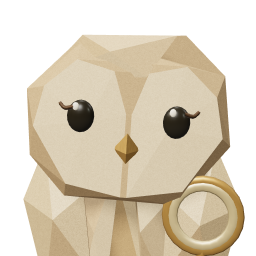
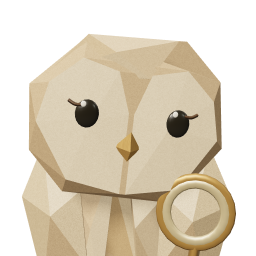
Refine clasped hands, continuous navigator arms and thinner feathers

diff --git a/src/scene/characterGeometry.ts b/src/scene/characterGeometry.ts
@@ -210,13 +210,13 @@ export function navigatorCapePoint(t:number,angle:number,inset=0):Tuple {
  * pasted onto the belly. The sweep is built once and uses the existing joint. */
 function embracingArm():THREE.BufferGeometry {
   const origin=new THREE.Vector3(.245,.23,.05);
-  const curve=new THREE.CatmullRomCurve3([[.245,.23,.05],[.25,.14,.13],[.23,0,.19],[.115,-.095,.22],[.04,-.10,.215]].map(p=>new THREE.Vector3(...p).sub(origin)));
+  const curve=new THREE.CatmullRomCurve3([[.245,.23,.05],[.25,.13,.13],[.20,.035,.22],[.065,.015,.245],[-.055,.035,.245]].map(p=>new THREE.Vector3(...p).sub(origin)));
   const rows=12,columns=12,frames=curve.computeFrenetFrames(rows,false),positions:number[]=[],indices:number[]=[];
   for(let row=0;row<=rows;row++){
     const t=row/rows,centre=curve.getPointAt(t),radius=.104*Math.pow(Math.max(0,Math.sin(Math.PI*t)),.45);
     for(let col=0;col<=columns;col++){
       const angle=col/columns*Math.PI*2,delta=frames.normals[row].clone().multiplyScalar(Math.cos(angle)*radius).addScaledVector(frames.binormals[row],Math.sin(angle)*radius);
-      positions.push(centre.x+delta.x,centre.y+delta.y,centre.z+delta.z*.80);
+      positions.push(Math.max(.0015,centre.x+origin.x+delta.x)-origin.x,centre.y+delta.y,centre.z+delta.z*.80);
       if(row<rows&&col<columns){const a=row*(columns+1)+col,b=a+1,c=a+columns+1,d=c+1;indices.push(a,b,c,b,d,c);}
     }
   }
@@ -254,12 +254,13 @@ function cape(): THREE.BufferGeometry {
 }
 
 function feather(): THREE.BufferGeometry {
-  const geometry = new THREE.SphereGeometry(.5, 8, 4), position = geometry.attributes.position;
-  for (let i = 0; i < position.count; i++) {
-    const y = position.getY(i), taper = .08 + .92 * Math.pow(Math.max(0,y + .5),.65);
-    position.setXYZ(i, position.getX(i) * taper, y < -.20 ? -.20 + (y + .20) * 1.38 : y, position.getZ(i));
-  }
-  return smoothDeformedSurface(geometry);
+  // A lightly cupped, thin feather, not a stretched solid diamond. The same
+  // closed outline works on the breast and on the overlapping wing fans.
+  const outline:Tuple[]=[[0,.5,0],[-.28,.44,0],[-.45,.24,0],[-.46,.04,0],[-.35,-.23,0],[-.17,-.48,0],[0,-.62,0],[.14,-.47,0],[.31,-.23,0],[.42,.04,0],[.40,.26,0],[.25,.44,0]];
+  const points:Tuple[]=[...outline,[0,.02,.10],...outline.map(([x,y,z])=>[x,y,z-.014] as Tuple),[0,.02,.086]];
+  const faces:number[][]=[];
+  for(let i=0;i<12;i++){const j=(i+1)%12;faces.push([i,12,j],[i+13,j+13,25],[i,j,j+13,i+13]);}
+  return smoothDeformedSurface(polyhedron(points,faces));
 }
 
 function polyhedron(vertices: Tuple[], faces: number[][],faceColors?: string[]): THREE.BufferGeometry {
@@ -356,9 +357,9 @@ function paperOwlHead(quill=false): THREE.BufferGeometry {
     const center=vertices.length;vertices.push([side?.18:-.18,-.015,.46]);
     for(let i=0;i<cheek.length;i++){const a=outline.length+side*cheek.length+i,b=outline.length+side*cheek.length+(i+1)%cheek.length;faces.push([a,b,center]);colors.push('#edd6b0');}
   }
-  const shoulder=vertices.length;vertices.push(...outline.map(([x,y])=>[x*.78,y*.85,.015] as Tuple));
-  const back=vertices.length;vertices.push(...outline.map(([x,y])=>[x*.53,y*.69,-.12] as Tuple));
-  const rearCenter=vertices.length;vertices.push([0,.03,-.16]);
+  const shoulder=vertices.length;vertices.push(...outline.map(([x,y])=>[x*.87,y*.92,.21-Math.abs(x)*.12] as Tuple));
+  const back=vertices.length;vertices.push(...outline.map(([x,y])=>[x*.58,y*.70,.03] as Tuple));
+  const rearCenter=vertices.length;vertices.push([-.035,.03,.08]);
   for(let i=0;i<outline.length;i++){
     const j=(i+1)%outline.length;faces.push([i,shoulder+i,shoulder+j],[i,shoulder+j,j],[shoulder+i,back+i,back+j],[shoulder+i,back+j,shoulder+j],[back+j,back+i,rearCenter]);
     colors.push('#c7ad8a','#d0b591','#c1a582','#c8b18c','#ba9e7a');
@@ -484,7 +485,7 @@ function featherFan(sign: number, breast = false): THREE.BufferGeometry {
         let r=0;while(r<owlContour.length-2&&owlContour[r+1].y<normalizedY)r++;
         const a=owlContour[r],b=owlContour[r+1],radius=a.x+(b.x-a.x)*(normalizedY-a.y)/(b.y-a.y);
         const theta=angle+point.x*.225/Math.max(.12,radius*.70);
-        const relief=(.016+point.z*.026+(4-row)*.012)*(1-.90*THREE.MathUtils.smoothstep(py,.14,.29));
+        const relief=(.007+point.z*.026+(4-row)*.0025)*(1-.30*THREE.MathUtils.smoothstep(py,.14,.29));
         point.set(Math.sin(theta)*(radius*.70+relief),py,Math.cos(theta)*(radius*.55+relief));
         const slope=(b.x-a.x)/(b.y-a.y);
         normal.set(Math.sin(theta)/.70,-slope/.83,Math.cos(theta)/.55).normalize();
@@ -507,7 +508,9 @@ function featherFan(sign: number, breast = false): THREE.BufferGeometry {
     const n=geometry.attributes.normal,a=new THREE.Vector3(),b=new THREE.Vector3();
     for(let i=0;i<n.count;i++){
       a.fromBufferAttribute(n,i);b.fromBufferAttribute(radial,i);
-      if(a.dot(b)>0)a.lerp(b,.16).normalize();
+      // Very thin overlapping plumage follows the body's soft shading. A
+      // beveled-solid normal would make each feather read like metal armor.
+      if(a.dot(b)>0)a.lerp(b,.92).normalize();
       n.setXYZ(i,a.x,a.y,a.z);
     }
     geometry.setAttribute('color',new THREE.Float32BufferAttribute(colours,3));
@@ -785,12 +788,24 @@ export function characterSmile(kit: SceneKit, parent: THREE.Object3D, color: str
 
 /** Small inlaid strokes share their tube surface across all scene characters. */
 export function characterStroke(kit: SceneKit, parent: THREE.Object3D, color: string, points: Tuple[],
-  radius = .008, finish: CharacterFinish = 'brass'): THREE.Mesh {
-  const cache = owned(kit).geometry, key = `stroke:${radius}:${points.map(point => point.join(':')).join(';')}`;
+  radius = .008, finish: CharacterFinish = 'brass',rounded=false): THREE.Mesh {
+  const cache = owned(kit).geometry, key = `stroke:${radius}:${rounded}:${points.map(point => point.join(':')).join(';')}`;
   let geometry = cache.get(key);
   if (!geometry) {
     const curve = new THREE.CatmullRomCurve3(points.map(point => new THREE.Vector3(...point)));
-    geometry = new THREE.TubeGeometry(curve, Math.max(4, points.length * 2), radius, 4, false); cache.set(key, geometry);
+    geometry = new THREE.TubeGeometry(curve, Math.max(4, points.length * 2), radius, rounded?8:4, false);
+    if(rounded){
+      const parts=[geometry.toNonIndexed(),...([points[0],points[points.length-1]].map(p=>{
+        const sphere=new THREE.SphereGeometry(radius,8,6).translate(...p),part=sphere.toNonIndexed();sphere.dispose();return part;
+      }))];
+      geometry.dispose();geometry=new THREE.BufferGeometry();
+      for(const name of ['position','normal','uv']){
+        const size=parts[0].attributes[name].itemSize;
+        geometry.setAttribute(name,new THREE.Float32BufferAttribute(parts.flatMap(part=>Array.from(part.attributes[name].array)),size));
+      }
+      parts.forEach(part=>part.dispose());
+    }
+    cache.set(key, geometry);
   }
   const mesh = new THREE.Mesh(geometry, characterMaterial(kit, color, finish));
   mesh.castShadow = true; mesh.receiveShadow = true; parent.add(mesh); return mesh;
@@ -799,7 +814,7 @@ export function characterStroke(kit: SceneKit, parent: THREE.Object3D, color: st
 export function characterEyeArc(kit: SceneKit, parent: THREE.Object3D, color: string, at: Tuple,
   width = .045, height = .026, finish: CharacterFinish = 'ink',strokeRadius=.010): THREE.Mesh {
   const mesh = characterStroke(kit, parent, color,
-    [[-width, 0, 0], [-width * .6, height * .82, 0], [0, height, 0], [width * .6, height * .82, 0], [width, 0, 0]], strokeRadius, finish);
+    [[-width, 0, 0], [-width * .6, height * .82, 0], [0, height, 0], [width * .6, height * .82, 0], [width, 0, 0]], strokeRadius, finish,strokeRadius>.012);
   mesh.position.set(...at); return mesh;
 }
 

diff --git a/src/scene/proxies.ts b/src/scene/proxies.ts
@@ -239,12 +239,12 @@ export function makeProxy(character: Character, kit: SceneKit): THREE.Group {
         sculpt(head, 'limb', wayfinder ? '#314a58' : '#a85e39', [sign * .425, -.01, 0], [.16, .095, .16], [0, 0, Math.PI / 2], 'glaze');
         sculpt(head, 'detail', wayfinder ? '#b5a78c' : bodyColor, [sign * .463, -.01, 0], [.045, .117, .117], undefined, 'glaze');
       });
-      limbs(bodyColor, wayfinder ? '#e7ddc8' : leader ? bodyColor : '#e2d6b7');
-      if(wayfinder) data.arms.forEach((arm,index)=>{
-        const sign=index?1:-1;arm.position.x=sign*.385;arm.position.y=.11;arm.position.z=.025;
-        arm.children[0].scale.set(.15,.44,.22);arm.children[0].position.y=-.13;
-        arm.children[1].scale.set(.15,.13,.18);arm.children[1].position.y=-.30;
+      limbs(bodyColor, wayfinder ? '#e7ddc8' : leader ? bodyColor : '#e2d6b7',false,wayfinder);
+      if(wayfinder) [-1,1].forEach(sign=>{
+        const arm=joint(body,sign<0?'arm_l':'arm_r',[sign*.375,.10,.025]);
+        sculpt(arm,'bean',bodyColor,[0,-.15,0],[.19,.61,.31],undefined,'glaze');
         sculpt(arm,'detail','#2d4250',[sign*.025,-.05,.116],[.085,.23,.025],[0,sign*.4,0],'clay');
+        data.arms.push(arm);
       });
       if(wayfinder&&id!=='intake-jarvis'){
         stroke(body,'#c3ad83',[[-.275,.19,.30],[-.255,-.04,.32],[-.15,-.16,.32],[0,-.20,.32],[.15,-.16,.32],[.255,-.04,.32],[.275,.19,.30]],.005,'clay');
@@ -322,10 +322,10 @@ export function makeProxy(character: Character, kit: SceneKit): THREE.Group {
       if (navy) sculpt(head, 'bean', '#c49b54', [sign * .162, .002, .289], [.157, .181, .051], undefined, 'brass');
       if (id === 'reflection-quill') data.eyes.push(characterEyeArc(kit, head, '#524334', [sign * .162, .015, .210], .047, .028));
       else {
-        const eye = sculpt(head, 'bean', navy ? '#13252d' : '#302c22', [sign * .162+(navy?.014:0), .011, navy?.313:.202], [navy ? .105 : .092, navy ? .125 : .110, .045], undefined, 'ink'); data.eyes.push(eye);
-        data.highlights.push(sculpt(head, 'detail', '#fff9e7', [sign * .162 - (navy?.003:.016), navy?.044:.043, navy?.330:.224], [navy?.025:.023, navy?.030:.028, .010], undefined, 'glaze'));
+        const eye = sculpt(head, 'bean', navy ? '#13252d' : '#302c22', [sign * .162+(navy?.029:.006), navy?-.002:.011, navy?.313:.195], [navy ? .105 : .083, navy ? .125 : .098, navy?.045:.024], undefined, 'ink'); data.eyes.push(eye);
+        data.highlights.push(sculpt(head, 'detail', '#fff9e7', [sign * .162 + (navy?.012:-.010), navy?.031:.043, navy?.330:.208], [navy?.025:.020, navy?.030:.022, .006], undefined, 'glaze'));
       }
-      if(id==='reflection-echo')stroke(head,'#56402a',[[sign*.184,.042,.223],[sign*.215,.035,.212],[sign*.235,.050,.194]],.007,'ink');
+      if(id==='reflection-echo')stroke(head,'#56402a',[[sign*.180+.006,.039,.203],[sign*.205+.006,.038,.201],[sign*.230+.006,.050,.192]],.006,'ink');
       if (navy) sculpt(head, sign < 0 ? 'owlBrowL' : 'owlBrowR', '#26394f', [sign * .18, .255, .045], sign<0?[.80,1.50,1.30]:[.90,.95,1.40], [0,0,sign<0?-.15:-.08], 'feather');
       const wing = joint(body, sign < 0 ? 'wing_l' : 'wing_r', [sign * .315, .12, -.025]);
       if(navy) sculpt(wing,'featherCore','#31485e',[sign*.015,-.145,0],[.205,.53,.30],[0,0,sign*.23],'feather');
@@ -393,9 +393,9 @@ export function makeProxy(character: Character, kit: SceneKit): THREE.Group {
     }
   }
   if(wayfinder)head.rotation.z=id==='intake-beacon'?-.095:id==='intake-relay'?.045:id==='intake-compass'?.11:-.025;
-  if(id==='reflection-echo'){head.rotation.z=-.07;head.rotation.y=.14;}
-  if(id==='reflection-quill'){head.rotation.z=.045;head.rotation.y=-.12;}
-  if(id==='email-owl'){head.rotation.z=-.12;head.rotation.y=.075;}
+  if(id==='reflection-echo'){head.rotation.z=-.12;head.rotation.y=.28;}
+  if(id==='reflection-quill'){head.rotation.z=.09;head.rotation.y=-.24;}
+  if(id==='email-owl'){head.rotation.z=-.16;head.rotation.y=.12;}
   if(id==='support-beacon'){head.rotation.z=.045;head.rotation.y=-.035;}
   data.restHead=data.head.rotation.clone();
   data.eyes.forEach(eye => { eye.userData.restEyeY = eye.scale.y; });

diff --git a/docs/AVATAR-DAYLIGHT-REVIEW.md b/docs/AVATAR-DAYLIGHT-REVIEW.md
@@ -28,7 +28,8 @@ The reviewer received no requested score and no instructions to approve.
 | Pass 9 | 7.7/10 | 8.2/10 | 7.9/10 — B |
 | Pass 10 | 7.9/10 | 8.1/10 | 8.0/10 — B+ |
 | Pass 11 | 8.1/10 | 8.1/10 | 8.1/10 — B+ |
-| Pass 12 | Pending | Pending | Independent review pending |
+| Pass 12 | 8.2/10 | 8.1/10 | 8.1/10 — B+ |
+| Pass 13 | Pending | Pending | Independent review pending |
 
 These are subjective visual judgments, not a pixel-similarity measurement.
 Craft/fidelity columns average the six team scores when no aggregate was supplied.
@@ -111,6 +112,13 @@ HR companion heights and the navigator cape's flare are also revised.
 The all-angle inspection exposed a mirrored-normal bug and an inside-out arm;
 both were fixed. Four new tests cover thin closed sheets, mirrored color and
 normal fidelity, and outward-facing arms. All 263 tests and the build pass.
+The twelfth review still found thick feather scales, solid-looking paper heads,
+low separated Beacon hands and exposed white mittens on the navigator cape.
+It did not approve the submission. Pass 13 replaces those mittens with joined
+side flaps, brings Beacon's hands into a clasp, rounds its eye-stroke ends,
+thins the owl's feather surfaces and paper-head backs, and refines eye depth
+and inward-looking posture. All 263 tests and the production build pass. No
+additional live render pass is introduced.
 
 ## Local-clock atmosphere
 
@@ -157,6 +165,8 @@ test suites were stopped during the samples.
 | Pass 11 night | 59.99 | 2.8 ms | 91 | 330,659 |
 | Pass 12 noon | 59.99 | 4.4 ms | 91 | 330,835 |
 | Pass 12 night | 60.01 | 4.6 ms | 91 | 330,835 |
+| Pass 13 noon | 60.01 | 4.1 ms | 91 | 329,523 |
+| Pass 13 night | 60.00 | 4.1 ms | 91 | 329,523 |
 
 The static scene returns to zero scheduled rendering fps. Submission timing is
 JavaScript/renderer time, **not GPU time**. The measurements preserve displayed
